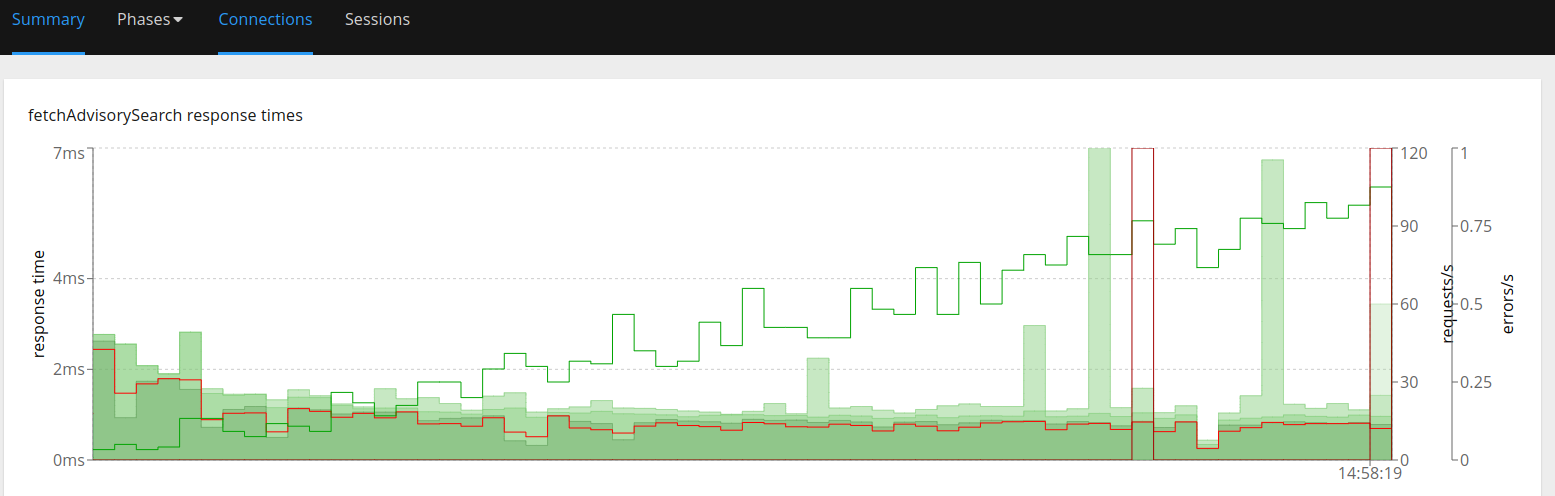
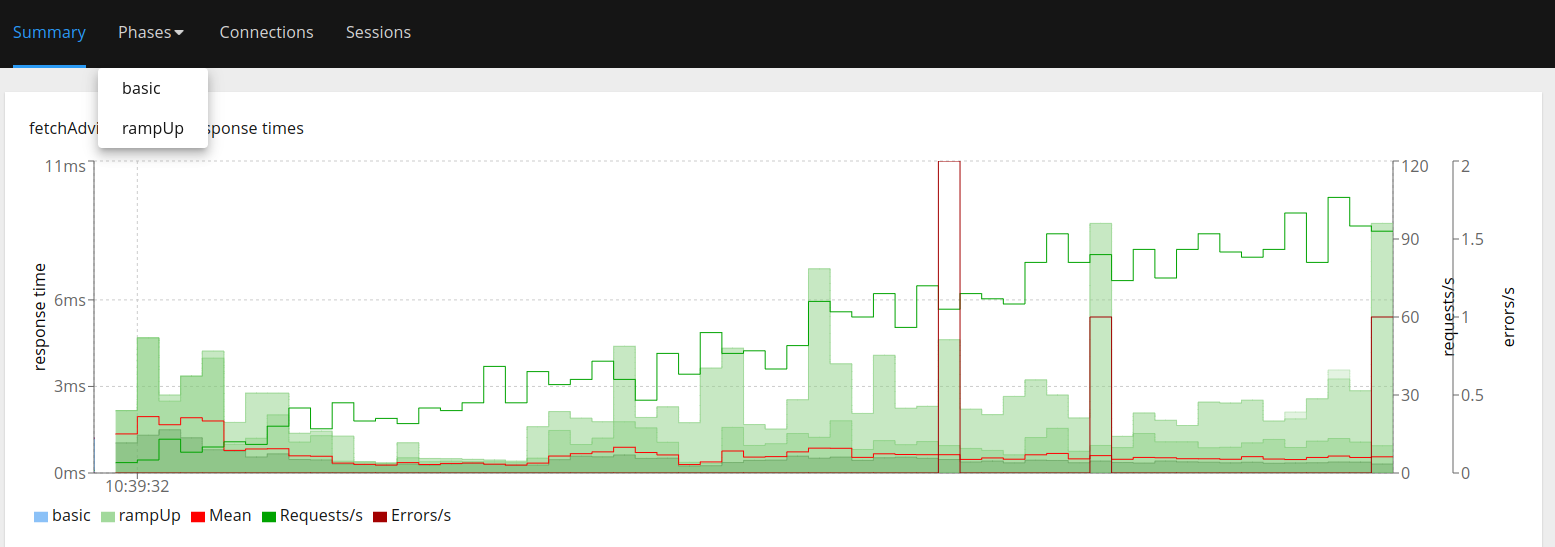
chore: hyperfoil updated
* readme simplified
* reusing the get-hyperfoil shell script

diff --git a/benchmarks/trustification/README.md b/benchmarks/trustification/README.md
@@ -6,17 +6,9 @@
 * Open other terminal and run hyperfoil:
 
 ```shell
-cd benchmarks/trustification
-./get-hf.sh
+cd benchmarks
+./get-hyperfoil.sh
 cd hyperfoil*/
-```
-
-> [!NOTE]
-> Change from `-Djava.net.preferIPv4Stack=true` to `-Djava.net.preferIPv4Stack=false` in `hyperfoil*/bin/parse-opts.sh` see: <https://github.com/Hyperfoil/Hyperfoil/issues/346>
-
-Run hyperfoil
-
-```shell
 ./bin/cli.sh
 ```
 
@@ -24,7 +16,7 @@ Run the following commands:
 
 ```shell
 start-local
-upload ../trustification-hf.yml
+upload ../trustification/trustification-hf.yml
 run
 stats
 ```
@@ -34,56 +26,53 @@ We can see something like:
 ```shell
 [hyperfoil]$ start-local
 Starting controller in default directory (/tmp/hyperfoil)
-Controller started, listening on 127.0.0.1:36171
+Controller started, listening on 127.0.0.1:42637
 Connecting to the controller...
-Connected to 127.0.0.1:36171!
-[hyperfoil@in-vm]$ upload ../trustification-hf.yml
+Connected to 127.0.0.1:42637!
+[hyperfoil@in-vm]$ upload ../trustification/trustification-hf.yml
 Loaded benchmark trustification, uploading...
 ... done.
 [hyperfoil@in-vm]$ run
-Started run 0000
-Run 0000, benchmark trustification
-Agents: in-vm[STARTING]
-Agents: in-vm[REGISTERED]
-Agents: in-vm[READY]
+Started run 0003
+Run 0003, benchmark trustification
 Agents: in-vm[STOPPED]
-Started: 2024/05/22 14:57:20.576    Terminated: 2024/05/22 14:58:20.595
-NAME    STATUS      STARTED       REMAINING  COMPLETED     TOTAL DURATION                DESCRIPTION
-basic   TERMINATED  14:57:20.576             14:57:20.598  22 ms (exceeded by 23 ms)     1 users at once
-rampUp  TERMINATED  14:57:20.576             14:58:20.595  60019 ms (exceeded by 19 ms)  1.00 - 100.00 users per second
+Started: 2024/06/03 10:39:30.920    Terminated: 2024/06/03 10:40:30.925
+NAME    STATUS      STARTED       REMAINING  COMPLETED     TOTAL DURATION               DESCRIPTION
+basic   TERMINATED  10:39:30.920             10:39:30.954  34 ms (exceeded by 35 ms)    1 users at once
+rampUp  TERMINATED  10:39:30.920             10:40:30.925  60005 ms (exceeded by 5 ms)  1.00 - 100.00 users per second
 [hyperfoil@in-vm]$ stats
-Total stats from run 0000
-PHASE   METRIC               THROUGHPUT   REQUESTS  MEAN       p50        p90        p99        p99.9      p99.99     TIMEOUTS  ERRORS  BLOCKED  2xx   3xx  4xx
+Total stats from run 0003
+PHASE   METRIC               THROUGHPUT   REQUESTS  MEAN       p50        p90        p99       p99.9     p99.99    TIMEOUTS  ERRORS  BLOCKED  2xx   3xx  4xx
                              5xx          CACHE
 ----------------------------------------------------------------------------------------------------------------------------------------------------------------
-basic   fetchAdvisorySearch  45.45 req/s         1    1.03 ms    1.03 ms    1.03 ms    1.03 ms    1.03 ms    1.03 ms         0       0     0 ns     1    0    0
+basic   fetchAdvisorySearch  29.41 req/s         1    1.21 ms    1.21 ms    1.21 ms   1.21 ms   1.21 ms   1.21 ms         0       0     0 ns     1    0    0
                                        0         0
 ----------------------------------------------------------------------------------------------------------------------------------------------------------------
-basic   fetchCveSearch       45.45 req/s         1  845.82 μs  847.87 μs  847.87 μs  847.87 μs  847.87 μs  847.87 μs         0       0     0 ns     1    0    0
+basic   fetchCveSearch       29.41 req/s         1    1.14 ms    1.15 ms    1.15 ms   1.15 ms   1.15 ms   1.15 ms         0       0     0 ns     1    0    0
                                        0         0
 ----------------------------------------------------------------------------------------------------------------------------------------------------------------
-basic   fetchPackagesSearch  45.45 req/s         1  858.11 μs  860.16 μs  860.16 μs  860.16 μs  860.16 μs  860.16 μs         0       0     0 ns     1    0    0
+basic   fetchPackagesSearch  29.41 req/s         1    1.08 ms    1.08 ms    1.08 ms   1.08 ms   1.08 ms   1.08 ms         0       0     0 ns     1    0    0
                                        0         0
 ----------------------------------------------------------------------------------------------------------------------------------------------------------------
-basic   fetchSbomSearch      45.45 req/s         1  956.42 μs  958.46 μs  958.46 μs  958.46 μs  958.46 μs  958.46 μs         0       0     0 ns     1    0    0
+basic   fetchSbomSearch      29.41 req/s         1    1.05 ms    1.06 ms    1.06 ms   1.06 ms   1.06 ms   1.06 ms         0       0     0 ns     1    0    0
                                        0         0
 ----------------------------------------------------------------------------------------------------------------------------------------------------------------
-basic   successfulLogin      45.45 req/s         1    9.86 ms    9.90 ms    9.90 ms    9.90 ms    9.90 ms    9.90 ms         0       0     0 ns     1    0    0
+basic   successfulLogin      29.41 req/s         1   11.37 ms   11.40 ms   11.40 ms  11.40 ms  11.40 ms  11.40 ms         0       0     0 ns     1    0    0
                                        0         0
 ----------------------------------------------------------------------------------------------------------------------------------------------------------------
-rampUp  fetchAdvisorySearch  50.48 req/s      3032  766.15 μs  831.49 μs    1.02 ms    1.61 ms    3.44 ms    9.24 ms         0       2     0 ns  3030    0    0
+rampUp  fetchAdvisorySearch  50.25 req/s      3019  572.55 μs  397.31 μs    1.09 ms   2.70 ms   5.41 ms   8.65 ms         0       4     0 ns  3015    0    0
                                        0         0
 ----------------------------------------------------------------------------------------------------------------------------------------------------------------
-rampUp  fetchCveSearch       50.45 req/s      3028  711.88 μs  778.24 μs  987.14 μs    1.70 ms    2.83 ms    8.26 ms         0       0     0 ns  3028    0    0
+rampUp  fetchCveSearch       50.20 req/s      3015  511.91 μs  366.59 μs  995.33 μs   2.52 ms   3.93 ms   5.34 ms         0       3     0 ns  3012    0    0
                                        0         0
 ----------------------------------------------------------------------------------------------------------------------------------------------------------------
-rampUp  fetchPackagesSearch  50.43 req/s      3028  698.65 μs  770.05 μs  974.85 μs    1.61 ms    3.13 ms    4.33 ms         0       1     0 ns  3027    0    0
+rampUp  fetchPackagesSearch  50.18 req/s      3012  506.41 μs  362.50 μs  946.18 μs   2.70 ms   4.26 ms   6.23 ms         0       1     0 ns  3011    0    0
                                        0         0
 ----------------------------------------------------------------------------------------------------------------------------------------------------------------
-rampUp  fetchSbomSearch      50.45 req/s      3030  734.06 μs  798.72 μs  995.33 μs    1.74 ms    4.26 ms    6.52 ms         0       2     0 ns  3028    0    0
+rampUp  fetchSbomSearch      50.25 req/s      3015  519.83 μs  368.64 μs  983.04 μs   2.47 ms   3.93 ms   6.26 ms         0       0     0 ns  3015    0    0
                                        0         0
 ----------------------------------------------------------------------------------------------------------------------------------------------------------------
-rampUp  successfulLogin      50.52 req/s      3032  922.16 μs  978.94 μs    1.25 ms    2.13 ms    4.26 ms    8.19 ms         0       0     0 ns  3032    0    0
+rampUp  successfulLogin      50.31 req/s      3019  752.45 μs  569.34 μs    1.32 ms   3.41 ms   6.65 ms  11.53 ms         0       0     0 ns  3019    0    0
                                        0         0
 ----------------------------------------------------------------------------------------------------------------------------------------------------------------
 [hyperfoil@in-vm]$

diff --git a/benchmarks/trustify/README.md b/benchmarks/trustify/README.md
@@ -4,25 +4,17 @@
 * Open other terminal and run hyperfoil:
 
 ```shell
-cd benchmarks/trustify
-./get-hf.sh
+cd benchmarks
+./get-hyperfoil.sh
 cd hyperfoil*/
-```
-
-> [!NOTE]
-> Change from `-Djava.net.preferIPv4Stack=true` to `-Djava.net.preferIPv4Stack=false` in `hyperfoil*/bin/parse-opts.sh` see: <https://github.com/Hyperfoil/Hyperfoil/issues/346>
-
-Run hyperfoil
-
-```shell
 ./bin/cli.sh
 ```
 
-Run the following commands:
+Run hyperfoil commands:
 
 ```shell
 start-local
-upload ../pm-mode-hf.yml
+upload ../trustify/pm-mode-hf.yml
 run
 stats
 ```
@@ -30,38 +22,30 @@ stats
 We can see something like:
 
 ```shell
-[hyperfoil@in-vm]$ upload ../pm-mode-hf.yml
+[hyperfoil]$ start-local
+Starting controller in default directory (/tmp/hyperfoil)
+Controller started, listening on 127.0.0.1:35863
+Connecting to the controller...
+Connected to 127.0.0.1:35863!
+[hyperfoil@in-vm]$ upload ../trustify/pm-mode-hf.yml
 Loaded benchmark pm-mode, uploading...
 ... done.
 [hyperfoil@in-vm]$ run
-Started run 0003
-Run 0003, benchmark pm-mode
+Started run 0000
+Run 0000, benchmark pm-mode
 Agents: in-vm[STOPPED]
-Started: 2024/05/16 14:32:27.744    Terminated: 2024/05/16 14:33:27.754
+Started: 2024/06/03 10:03:58.716    Terminated: 2024/06/03 10:04:58.725
 NAME    STATUS      STARTED       REMAINING  COMPLETED     TOTAL DURATION               DESCRIPTION
-basic   TERMINATED  14:32:27.745             14:32:27.757  12 ms (exceeded by 13 ms)    1 users at once
-rampUp  TERMINATED  14:32:27.745             14:33:27.754  60009 ms (exceeded by 9 ms)  1.00 - 100.00 users per second
+basic   TERMINATED  10:03:58.716             10:03:58.729  13 ms (exceeded by 14 ms)    1 users at once
+rampUp  TERMINATED  10:03:58.716             10:04:58.725  60009 ms (exceeded by 9 ms)  1.00 - 100.00 users per second
 [hyperfoil@in-vm]$ stats
-Total stats from run 0003
-PHASE   METRIC                THROUGHPUT   REQUESTS  MEAN     p50      p90      p99      p99.9    p99.99    TIMEOUTS  ERRORS  BLOCKED  2xx   3xx  4xx  5xx
-                              CACHE
-----------------------------------------------------------------------------------------------------------------------------------------------------------------
-basic   fetchSboms            83.33 req/s         1  4.21 ms  4.23 ms  4.23 ms  4.23 ms  4.23 ms   4.23 ms         0       0     0 ns     1    0    0    0
-                                        0
-----------------------------------------------------------------------------------------------------------------------------------------------------------------
-rampUp  fetchAdvisories       50.44 req/s      3027  1.20 ms  1.36 ms  1.64 ms  2.38 ms  4.06 ms  11.80 ms         0       0     0 ns  3027    0    0    0
-                                        0
-----------------------------------------------------------------------------------------------------------------------------------------------------------------
-rampUp  fetchImporters        50.44 req/s      3027  1.20 ms  1.36 ms  1.71 ms  2.33 ms  3.21 ms  11.60 ms         0       0     0 ns  3027    0    0    0
-                                        0
-----------------------------------------------------------------------------------------------------------------------------------------------------------------
-rampUp  fetchSboms            50.46 req/s      3028  1.44 ms  1.56 ms  1.95 ms  2.56 ms  4.06 ms  10.62 ms         0       0     0 ns  3027    0    1    0
-                                        0
-----------------------------------------------------------------------------------------------------------------------------------------------------------------
-rampUp  fetchVulnerabilities  50.44 req/s      3027  1.25 ms  1.43 ms  1.70 ms  2.21 ms  2.95 ms   4.26 ms         0       0     0 ns  3027    0    0    0
-                                        0
-----------------------------------------------------------------------------------------------------------------------------------------------------------------
-[hyperfoil@in-vm]$
+Total stats from run 0000
+PHASE   METRIC                THROUGHPUT   REQUESTS  MEAN     p50      p90      p99      p99.9    p99.99   TIMEOUTS  ERRORS  BLOCKED  2xx   3xx  4xx  5xx  CACHE
+basic   fetchSboms            76.92 req/s         1  4.77 ms  4.78 ms  4.78 ms  4.78 ms  4.78 ms  4.78 ms         0       0     0 ns     1    0    0    0      0
+rampUp  fetchAdvisories       49.06 req/s      2944  1.45 ms  1.48 ms  2.06 ms  2.82 ms  3.75 ms  7.57 ms         0       0     0 ns  2944    0    0    0      0
+rampUp  fetchImporters        49.06 req/s      2944  1.47 ms  1.48 ms  2.10 ms  2.67 ms  4.65 ms  5.83 ms         0       0     0 ns  2944    0    0    0      0
+rampUp  fetchSboms            49.06 req/s      2944  1.63 ms  1.69 ms  2.07 ms  2.85 ms  5.28 ms  6.91 ms         0       0     0 ns  2944    0    0    0      0
+rampUp  fetchVulnerabilities  49.06 req/s      2944  1.46 ms  1.49 ms  1.97 ms  2.64 ms  3.41 ms  5.67 ms         0       0     0 ns  2944    0    0    0      0
 ```
 
 Now run the `report` command:

diff --git a/benchmarks/README.md b/benchmarks/README.md
@@ -1,7 +1,9 @@
 # Benchmarks
 
 > [!NOTE]
-> This is a working in progress.
+> This is a work in progress.
+
+See the benchmark results bellow
 
 * [trustify](./trustify/README.md)
 * [trustification](./trustification/README.md)
